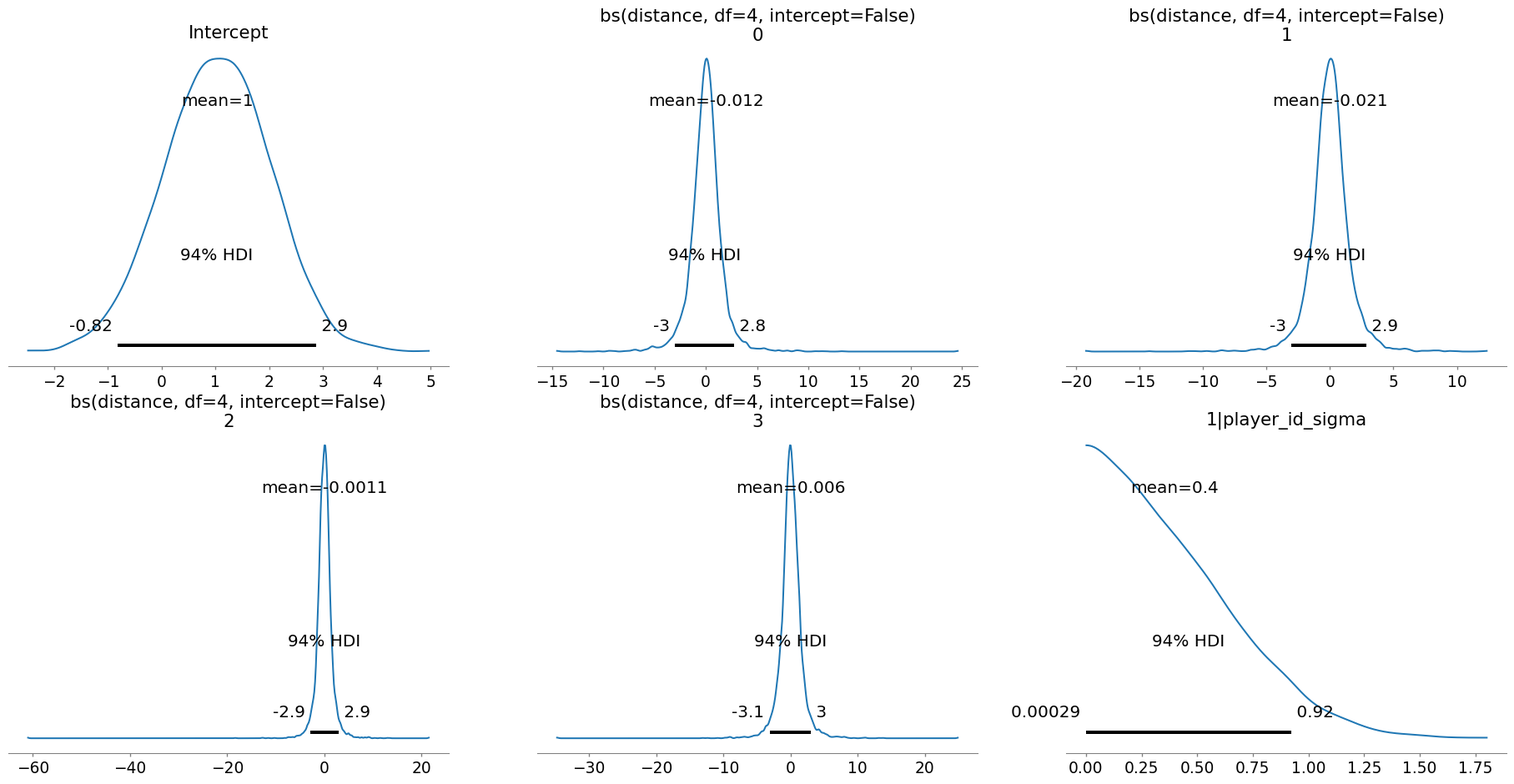
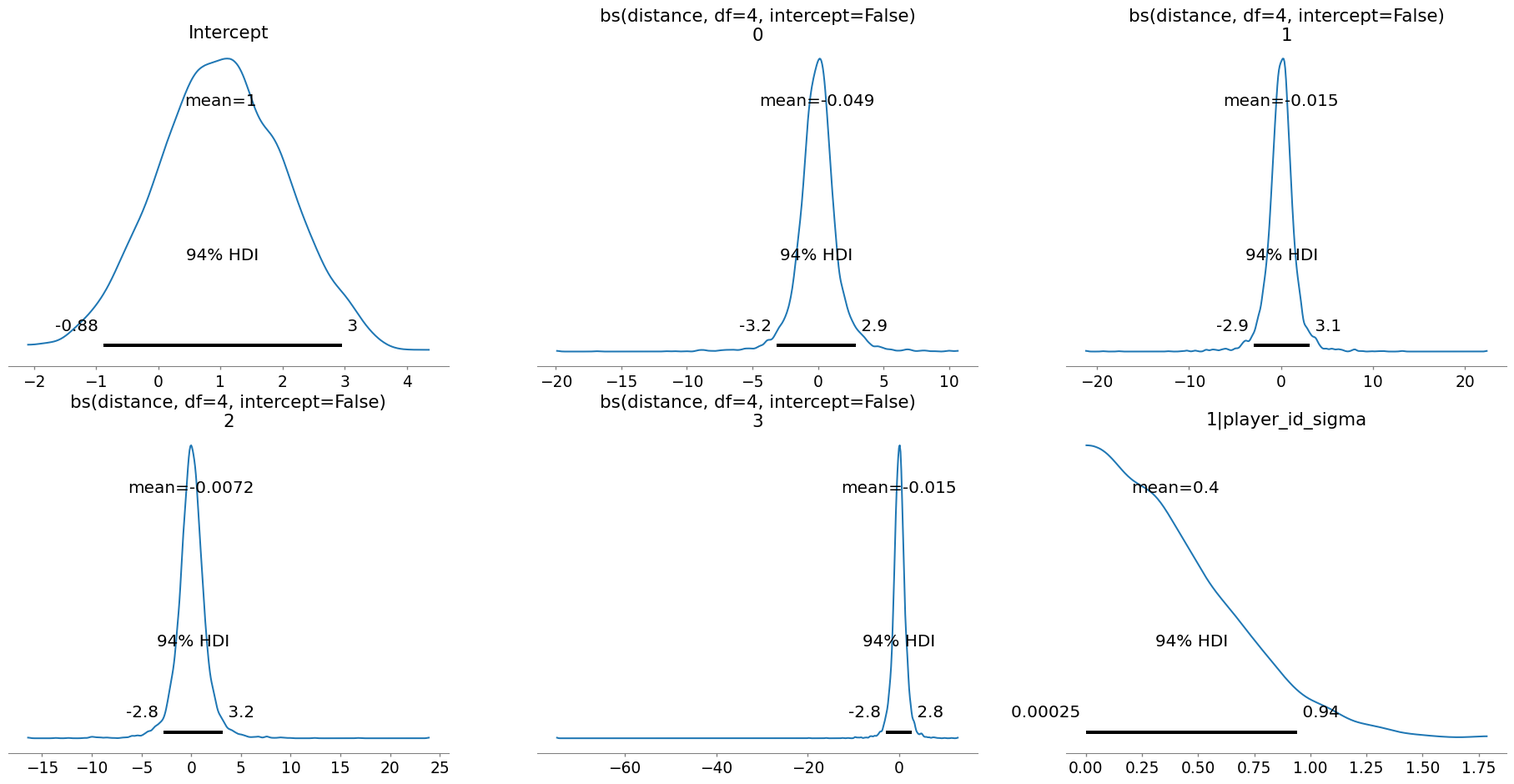
gha3

diff --git a/kicker_model.html b/kicker_model.html
@@ -415,11 +415,11 @@ y_i &amp;\sim \operatorname{Bernoulli}(p_i) \\
 Initializing NUTS using jitter+adapt_diag...
 Sequential sampling (4 chains in 1 job)
 NUTS: [Intercept, bs(distance, df=4, intercept=False), 1|player_id_sigma, 1|player_id_offset]
-Sampling 4 chains for 1_000 tune and 1_000 draw iterations (4_000 + 4_000 draws total) took 72 seconds.</code></pre>
+Sampling 4 chains for 1_000 tune and 1_000 draw iterations (4_000 + 4_000 draws total) took 71 seconds.</code></pre>
 </div>
 <div class="cell-output cell-output-display">
 <script type="application/vnd.jupyter.widget-view+json">
-{"model_id":"223e0524ee2a4f339ab9a6e0280fd861","version_major":2,"version_minor":0,"quarto_mimetype":"application/vnd.jupyter.widget-view+json"}
+{"model_id":"49ae325fdee8491b823c5fe4d8f8015f","version_major":2,"version_minor":0,"quarto_mimetype":"application/vnd.jupyter.widget-view+json"}
 </script>
 </div>
 <div class="cell-output cell-output-display">
@@ -925,69 +925,69 @@ Sampling 4 chains for 1_000 tune and 1_000 draw iterations (4_000 + 4_000 draws 
 </thead>
 <tbody>
 <tr class="odd">
-<td>"MARSHALL KOEHN"</td>
-<td>"43736"</td>
-<td>0.08794</td>
+<td>"BRANDON MCMANUS"</td>
+<td>"40276"</td>
+<td>0.380004</td>
 <td>4000</td>
 </tr>
 <tr class="even">
-<td>"JASON MYERS"</td>
-<td>"41175"</td>
-<td>0.206849</td>
+<td>"BRETT MAHER"</td>
+<td>"40775"</td>
+<td>0.657678</td>
 <td>4000</td>
 </tr>
 <tr class="odd">
-<td>"HARRISON BUTKER"</td>
-<td>"45046"</td>
-<td>1.015906</td>
+<td>"ZANE GONZALEZ"</td>
+<td>"45037"</td>
+<td>-0.75119</td>
 <td>4000</td>
 </tr>
 <tr class="even">
+<td>"SEBASTIAN JANIKOWSKI"</td>
+<td>"25326"</td>
+<td>0.947021</td>
+<td>4000</td>
+</tr>
+<tr class="odd">
 <td>"JASON SANDERS"</td>
 <td>"46298"</td>
 <td>0.143966</td>
 <td>4000</td>
 </tr>
+<tr class="even">
+<td>…</td>
+<td>…</td>
+<td>…</td>
+<td>…</td>
+</tr>
 <tr class="odd">
+<td>"STEVEN HAUSCHKA"</td>
+<td>"33469"</td>
+<td>1.87498</td>
+<td>4000</td>
+</tr>
+<tr class="even">
 <td>"GREG JOSEPH"</td>
 <td>"46634"</td>
 <td>0.250833</td>
 <td>4000</td>
 </tr>
-<tr class="even">
-<td>…</td>
-<td>…</td>
-<td>…</td>
-<td>…</td>
-</tr>
 <tr class="odd">
-<td>"JAKE ELLIOTT"</td>
-<td>"44966"</td>
-<td>-0.136802</td>
+<td>"MATT PRATER"</td>
+<td>"31446"</td>
+<td>1.070614</td>
 <td>4000</td>
 </tr>
 <tr class="even">
-<td>"ROSS MARTIN"</td>
-<td>"43815"</td>
-<td>-0.385742</td>
+<td>"MICHAEL BADGLEY"</td>
+<td>"46342"</td>
+<td>0.304538</td>
 <td>4000</td>
 </tr>
 <tr class="odd">
-<td>"JOHNNY HEKKER"</td>
-<td>"38815"</td>
-<td>-0.048811</td>
-<td>4000</td>
-</tr>
-<tr class="even">
-<td>"EDDY PINEIRO"</td>
-<td>"46426"</td>
-<td>0.135145</td>
-<td>4000</td>
-</tr>
-<tr class="odd">
-<td>"KAI FORBATH"</td>
-<td>"38220"</td>
-<td>0.623663</td>
+<td>"DUSTIN HOPKINS"</td>
+<td>"40125"</td>
+<td>0.128891</td>
 <td>4000</td>
 </tr>
 </tbody>
@@ -1197,52 +1197,52 @@ Note
 </details>
 <div class="cell-output cell-output-display" data-execution_count="18">
 
-<div id="bfrzueqqbv" style="padding-left:0px;padding-right:0px;padding-top:10px;padding-bottom:10px;overflow-x:auto;overflow-y:auto;width:auto;height:auto;">
+<div id="mxuyhsnmgg" style="padding-left:0px;padding-right:0px;padding-top:10px;padding-bottom:10px;overflow-x:auto;overflow-y:auto;width:auto;height:auto;">
 <style>
-#bfrzueqqbv table {
+#mxuyhsnmgg table {
           font-family: -apple-system, BlinkMacSystemFont, 'Segoe UI', Roboto, Oxygen, Ubuntu, Cantarell, 'Helvetica Neue', 'Fira Sans', 'Droid Sans', Arial, sans-serif;
           -webkit-font-smoothing: antialiased;
           -moz-osx-font-smoothing: grayscale;
         }
 
-#bfrzueqqbv thead, tbody, tfoot, tr, td, th { border-style: none; }
+#mxuyhsnmgg thead, tbody, tfoot, tr, td, th { border-style: none; }
  tr { background-color: transparent; }
-#bfrzueqqbv p { margin: 0; padding: 0; }
- #bfrzueqqbv .gt_table { display: table; border-collapse: collapse; line-height: normal; margin-left: auto; margin-right: auto; color: #333333; font-size: 16px; font-weight: normal; font-style: normal; background-color: #FFFFFF; width: auto; border-top-style: solid; border-top-width: 2px; border-top-color: #A8A8A8; border-right-style: none; border-right-width: 2px; border-right-color: #D3D3D3; border-bottom-style: solid; border-bottom-width: 2px; border-bottom-color: #A8A8A8; border-left-style: none; border-left-width: 2px; border-left-color: #D3D3D3; }
- #bfrzueqqbv .gt_caption { padding-top: 4px; padding-bottom: 4px; }
- #bfrzueqqbv .gt_title { color: #333333; font-size: 125%; font-weight: initial; padding-top: 4px; padding-bottom: 4px; padding-left: 5px; padding-right: 5px; border-bottom-color: #FFFFFF; border-bottom-width: 0; }
- #bfrzueqqbv .gt_subtitle { color: #333333; font-size: 85%; font-weight: initial; padding-top: 3px; padding-bottom: 5px; padding-left: 5px; padding-right: 5px; border-top-color: #FFFFFF; border-top-width: 0; }
- #bfrzueqqbv .gt_heading { background-color: #FFFFFF; text-align: center; border-bottom-color: #FFFFFF; border-left-style: none; border-left-width: 1px; border-left-color: #D3D3D3; border-right-style: none; border-right-width: 1px; border-right-color: #D3D3D3; }
- #bfrzueqqbv .gt_bottom_border { border-bottom-style: solid; border-bottom-width: 2px; border-bottom-color: #D3D3D3; }
- #bfrzueqqbv .gt_col_headings { border-top-style: solid; border-top-width: 2px; border-top-color: #D3D3D3; border-bottom-style: solid; border-bottom-width: 2px; border-bottom-color: #D3D3D3; border-left-style: none; border-left-width: 1px; border-left-color: #D3D3D3; border-right-style: none; border-right-width: 1px; border-right-color: #D3D3D3; }
- #bfrzueqqbv .gt_col_heading { color: #333333; background-color: #FFFFFF; font-size: 100%; font-weight: normal; text-transform: inherit; border-left-style: none; border-left-width: 1px; border-left-color: #D3D3D3; border-right-style: none; border-right-width: 1px; border-right-color: #D3D3D3; vertical-align: bottom; padding-top: 5px; padding-bottom: 5px; padding-left: 5px; padding-right: 5px; overflow-x: hidden; }
- #bfrzueqqbv .gt_column_spanner_outer { color: #333333; background-color: #FFFFFF; font-size: 100%; font-weight: normal; text-transform: inherit; padding-top: 0; padding-bottom: 0; padding-left: 4px; padding-right: 4px; }
- #bfrzueqqbv .gt_column_spanner_outer:first-child { padding-left: 0; }
- #bfrzueqqbv .gt_column_spanner_outer:last-child { padding-right: 0; }
- #bfrzueqqbv .gt_column_spanner { border-bottom-style: solid; border-bottom-width: 2px; border-bottom-color: #D3D3D3; vertical-align: bottom; padding-top: 5px; padding-bottom: 5px; overflow-x: hidden; display: inline-block; width: 100%; }
- #bfrzueqqbv .gt_spanner_row { border-bottom-style: hidden; }
- #bfrzueqqbv .gt_group_heading { padding-top: 8px; padding-bottom: 8px; padding-left: 5px; padding-right: 5px; color: #333333; background-color: #FFFFFF; font-size: 100%; font-weight: initial; text-transform: inherit; border-top-style: solid; border-top-width: 2px; border-top-color: #D3D3D3; border-bottom-style: solid; border-bottom-width: 2px; border-bottom-color: #D3D3D3; border-left-style: none; border-left-width: 1px; border-left-color: #D3D3D3; border-right-style: none; border-right-width: 1px; border-right-color: #D3D3D3; vertical-align: middle; text-align: left; }
- #bfrzueqqbv .gt_empty_group_heading { padding: 0.5px; color: #333333; background-color: #FFFFFF; font-size: 100%; font-weight: initial; border-top-style: solid; border-top-width: 2px; border-top-color: #D3D3D3; border-bottom-style: solid; border-bottom-width: 2px; border-bottom-color: #D3D3D3; vertical-align: middle; }
- #bfrzueqqbv .gt_from_md> :first-child { margin-top: 0; }
- #bfrzueqqbv .gt_from_md> :last-child { margin-bottom: 0; }
- #bfrzueqqbv .gt_row { padding-top: 8px; padding-bottom: 8px; padding-left: 5px; padding-right: 5px; margin: 10px; border-top-style: solid; border-top-width: 1px; border-top-color: #D3D3D3; border-left-style: none; border-left-width: 1px; border-left-color: #D3D3D3; border-right-style: none; border-right-width: 1px; border-right-color: #D3D3D3; vertical-align: middle; overflow-x: hidden; }
- #bfrzueqqbv .gt_stub { color: #333333; background-color: #FFFFFF; font-size: 100%; font-weight: initial; text-transform: inherit; border-right-style: solid; border-right-width: 2px; border-right-color: #D3D3D3; padding-left: 5px; padding-right: 5px; }
- #bfrzueqqbv .gt_stub_row_group { color: #333333; background-color: #FFFFFF; font-size: 100%; font-weight: initial; text-transform: inherit; border-right-style: solid; border-right-width: 2px; border-right-color: #D3D3D3; padding-left: 5px; padding-right: 5px; vertical-align: top; }
- #bfrzueqqbv .gt_row_group_first td { border-top-width: 2px; }
- #bfrzueqqbv .gt_row_group_first th { border-top-width: 2px; }
- #bfrzueqqbv .gt_striped { background-color: rgba(128,128,128,0.05); }
- #bfrzueqqbv .gt_table_body { border-top-style: solid; border-top-width: 2px; border-top-color: #D3D3D3; border-bottom-style: solid; border-bottom-width: 2px; border-bottom-color: #D3D3D3; }
- #bfrzueqqbv .gt_sourcenotes { color: #333333; background-color: #FFFFFF; border-bottom-style: none; border-bottom-width: 2px; border-bottom-color: #D3D3D3; border-left-style: none; border-left-width: 2px; border-left-color: #D3D3D3; border-right-style: none; border-right-width: 2px; border-right-color: #D3D3D3; }
- #bfrzueqqbv .gt_sourcenote { font-size: 90%; padding-top: 4px; padding-bottom: 4px; padding-left: 5px; padding-right: 5px; text-align: left; }
- #bfrzueqqbv .gt_left { text-align: left; }
- #bfrzueqqbv .gt_center { text-align: center; }
- #bfrzueqqbv .gt_right { text-align: right; font-variant-numeric: tabular-nums; }
- #bfrzueqqbv .gt_font_normal { font-weight: normal; }
- #bfrzueqqbv .gt_font_bold { font-weight: bold; }
- #bfrzueqqbv .gt_font_italic { font-style: italic; }
- #bfrzueqqbv .gt_super { font-size: 65%; }
- #bfrzueqqbv .gt_footnote_marks { font-size: 75%; vertical-align: 0.4em; position: initial; }
- #bfrzueqqbv .gt_asterisk { font-size: 100%; vertical-align: 0; }
+#mxuyhsnmgg p { margin: 0; padding: 0; }
+ #mxuyhsnmgg .gt_table { display: table; border-collapse: collapse; line-height: normal; margin-left: auto; margin-right: auto; color: #333333; font-size: 16px; font-weight: normal; font-style: normal; background-color: #FFFFFF; width: auto; border-top-style: solid; border-top-width: 2px; border-top-color: #A8A8A8; border-right-style: none; border-right-width: 2px; border-right-color: #D3D3D3; border-bottom-style: solid; border-bottom-width: 2px; border-bottom-color: #A8A8A8; border-left-style: none; border-left-width: 2px; border-left-color: #D3D3D3; }
+ #mxuyhsnmgg .gt_caption { padding-top: 4px; padding-bottom: 4px; }
+ #mxuyhsnmgg .gt_title { color: #333333; font-size: 125%; font-weight: initial; padding-top: 4px; padding-bottom: 4px; padding-left: 5px; padding-right: 5px; border-bottom-color: #FFFFFF; border-bottom-width: 0; }
+ #mxuyhsnmgg .gt_subtitle { color: #333333; font-size: 85%; font-weight: initial; padding-top: 3px; padding-bottom: 5px; padding-left: 5px; padding-right: 5px; border-top-color: #FFFFFF; border-top-width: 0; }
+ #mxuyhsnmgg .gt_heading { background-color: #FFFFFF; text-align: center; border-bottom-color: #FFFFFF; border-left-style: none; border-left-width: 1px; border-left-color: #D3D3D3; border-right-style: none; border-right-width: 1px; border-right-color: #D3D3D3; }
+ #mxuyhsnmgg .gt_bottom_border { border-bottom-style: solid; border-bottom-width: 2px; border-bottom-color: #D3D3D3; }
+ #mxuyhsnmgg .gt_col_headings { border-top-style: solid; border-top-width: 2px; border-top-color: #D3D3D3; border-bottom-style: solid; border-bottom-width: 2px; border-bottom-color: #D3D3D3; border-left-style: none; border-left-width: 1px; border-left-color: #D3D3D3; border-right-style: none; border-right-width: 1px; border-right-color: #D3D3D3; }
+ #mxuyhsnmgg .gt_col_heading { color: #333333; background-color: #FFFFFF; font-size: 100%; font-weight: normal; text-transform: inherit; border-left-style: none; border-left-width: 1px; border-left-color: #D3D3D3; border-right-style: none; border-right-width: 1px; border-right-color: #D3D3D3; vertical-align: bottom; padding-top: 5px; padding-bottom: 5px; padding-left: 5px; padding-right: 5px; overflow-x: hidden; }
+ #mxuyhsnmgg .gt_column_spanner_outer { color: #333333; background-color: #FFFFFF; font-size: 100%; font-weight: normal; text-transform: inherit; padding-top: 0; padding-bottom: 0; padding-left: 4px; padding-right: 4px; }
+ #mxuyhsnmgg .gt_column_spanner_outer:first-child { padding-left: 0; }
+ #mxuyhsnmgg .gt_column_spanner_outer:last-child { padding-right: 0; }
+ #mxuyhsnmgg .gt_column_spanner { border-bottom-style: solid; border-bottom-width: 2px; border-bottom-color: #D3D3D3; vertical-align: bottom; padding-top: 5px; padding-bottom: 5px; overflow-x: hidden; display: inline-block; width: 100%; }
+ #mxuyhsnmgg .gt_spanner_row { border-bottom-style: hidden; }
+ #mxuyhsnmgg .gt_group_heading { padding-top: 8px; padding-bottom: 8px; padding-left: 5px; padding-right: 5px; color: #333333; background-color: #FFFFFF; font-size: 100%; font-weight: initial; text-transform: inherit; border-top-style: solid; border-top-width: 2px; border-top-color: #D3D3D3; border-bottom-style: solid; border-bottom-width: 2px; border-bottom-color: #D3D3D3; border-left-style: none; border-left-width: 1px; border-left-color: #D3D3D3; border-right-style: none; border-right-width: 1px; border-right-color: #D3D3D3; vertical-align: middle; text-align: left; }
+ #mxuyhsnmgg .gt_empty_group_heading { padding: 0.5px; color: #333333; background-color: #FFFFFF; font-size: 100%; font-weight: initial; border-top-style: solid; border-top-width: 2px; border-top-color: #D3D3D3; border-bottom-style: solid; border-bottom-width: 2px; border-bottom-color: #D3D3D3; vertical-align: middle; }
+ #mxuyhsnmgg .gt_from_md> :first-child { margin-top: 0; }
+ #mxuyhsnmgg .gt_from_md> :last-child { margin-bottom: 0; }
+ #mxuyhsnmgg .gt_row { padding-top: 8px; padding-bottom: 8px; padding-left: 5px; padding-right: 5px; margin: 10px; border-top-style: solid; border-top-width: 1px; border-top-color: #D3D3D3; border-left-style: none; border-left-width: 1px; border-left-color: #D3D3D3; border-right-style: none; border-right-width: 1px; border-right-color: #D3D3D3; vertical-align: middle; overflow-x: hidden; }
+ #mxuyhsnmgg .gt_stub { color: #333333; background-color: #FFFFFF; font-size: 100%; font-weight: initial; text-transform: inherit; border-right-style: solid; border-right-width: 2px; border-right-color: #D3D3D3; padding-left: 5px; padding-right: 5px; }
+ #mxuyhsnmgg .gt_stub_row_group { color: #333333; background-color: #FFFFFF; font-size: 100%; font-weight: initial; text-transform: inherit; border-right-style: solid; border-right-width: 2px; border-right-color: #D3D3D3; padding-left: 5px; padding-right: 5px; vertical-align: top; }
+ #mxuyhsnmgg .gt_row_group_first td { border-top-width: 2px; }
+ #mxuyhsnmgg .gt_row_group_first th { border-top-width: 2px; }
+ #mxuyhsnmgg .gt_striped { background-color: rgba(128,128,128,0.05); }
+ #mxuyhsnmgg .gt_table_body { border-top-style: solid; border-top-width: 2px; border-top-color: #D3D3D3; border-bottom-style: solid; border-bottom-width: 2px; border-bottom-color: #D3D3D3; }
+ #mxuyhsnmgg .gt_sourcenotes { color: #333333; background-color: #FFFFFF; border-bottom-style: none; border-bottom-width: 2px; border-bottom-color: #D3D3D3; border-left-style: none; border-left-width: 2px; border-left-color: #D3D3D3; border-right-style: none; border-right-width: 2px; border-right-color: #D3D3D3; }
+ #mxuyhsnmgg .gt_sourcenote { font-size: 90%; padding-top: 4px; padding-bottom: 4px; padding-left: 5px; padding-right: 5px; text-align: left; }
+ #mxuyhsnmgg .gt_left { text-align: left; }
+ #mxuyhsnmgg .gt_center { text-align: center; }
+ #mxuyhsnmgg .gt_right { text-align: right; font-variant-numeric: tabular-nums; }
+ #mxuyhsnmgg .gt_font_normal { font-weight: normal; }
+ #mxuyhsnmgg .gt_font_bold { font-weight: bold; }
+ #mxuyhsnmgg .gt_font_italic { font-style: italic; }
+ #mxuyhsnmgg .gt_super { font-size: 65%; }
+ #mxuyhsnmgg .gt_footnote_marks { font-size: 75%; vertical-align: 0.4em; position: initial; }
+ #mxuyhsnmgg .gt_asterisk { font-size: 100%; vertical-align: 0; }
  
 </style>
 <table class="gt_table" data-quarto-disable-processing="false" data-quarto-bootstrap="false">
@@ -1490,7 +1490,7 @@ Note
 </main>
 <!-- /main column -->
 <script type="application/vnd.jupyter.widget-state+json">
-{"state":{"1ab16292906c4d8fb2be0ba306f9bf16":{"model_module":"@jupyter-widgets/base","model_module_version":"2.0.0","model_name":"LayoutModel","state":{"_model_module":"@jupyter-widgets/base","_model_module_version":"2.0.0","_model_name":"LayoutModel","_view_count":null,"_view_module":"@jupyter-widgets/base","_view_module_version":"2.0.0","_view_name":"LayoutView","align_content":null,"align_items":null,"align_self":null,"border_bottom":null,"border_left":null,"border_right":null,"border_top":null,"bottom":null,"display":null,"flex":null,"flex_flow":null,"grid_area":null,"grid_auto_columns":null,"grid_auto_flow":null,"grid_auto_rows":null,"grid_column":null,"grid_gap":null,"grid_row":null,"grid_template_areas":null,"grid_template_columns":null,"grid_template_rows":null,"height":null,"justify_content":null,"justify_items":null,"left":null,"margin":null,"max_height":null,"max_width":null,"min_height":null,"min_width":null,"object_fit":null,"object_position":null,"order":null,"overflow":null,"padding":null,"right":null,"top":null,"visibility":null,"width":null}},"223e0524ee2a4f339ab9a6e0280fd861":{"model_module":"@jupyter-widgets/output","model_module_version":"1.0.0","model_name":"OutputModel","state":{"_dom_classes":[],"_model_module":"@jupyter-widgets/output","_model_module_version":"1.0.0","_model_name":"OutputModel","_view_count":null,"_view_module":"@jupyter-widgets/output","_view_module_version":"1.0.0","_view_name":"OutputView","layout":"IPY_MODEL_1ab16292906c4d8fb2be0ba306f9bf16","msg_id":"","outputs":[{"data":{"text/html":"<pre style=\"white-space:pre;overflow-x:auto;line-height:normal;font-family:Menlo,'DejaVu Sans Mono',consolas,'Courier New',monospace\">                                                                                                                   \n <span style=\"font-weight: bold\"> Progress                  </span> <span style=\"font-weight: bold\"> Draws </span> <span style=\"font-weight: bold\"> Divergences </span> <span style=\"font-weight: bold\"> Step size </span> <span style=\"font-weight: bold\"> Grad evals </span> <span style=\"font-weight: bold\"> Sampling Speed </span> <span style=\"font-weight: bold\"> Elapsed </span> <span style=\"font-weight: bold\"> Remaining </span> \n ───────────────────────────────────────────────────────────────────────────────────────────────────────────────── \n  <span style=\"color: #1f77b4; text-decoration-color: #1f77b4\">━━━━━━━━━━━━━━━━━━━━━━━━━</span>   2000    0             0.23        15           110.76 draws/s   0:00:18   0:00:00    \n  <span style=\"color: #1f77b4; text-decoration-color: #1f77b4\">━━━━━━━━━━━━━━━━━━━━━━━━━</span>   2000    0             0.15        15           54.84 draws/s    0:00:36   0:00:00    \n  <span style=\"color: #1f77b4; text-decoration-color: #1f77b4\">━━━━━━━━━━━━━━━━━━━━━━━━━</span>   2000    0             0.27        15           36.65 draws/s    0:00:54   0:00:00    \n  <span style=\"color: #1f77b4; text-decoration-color: #1f77b4\">━━━━━━━━━━━━━━━━━━━━━━━━━</span>   2000    0             0.22        15           27.82 draws/s    0:01:11   0:00:00    \n                                                                                                                   \n</pre>\n","text/plain":"                                                                                                                   \n \u001b[1m \u001b[0m\u001b[1mProgress                 \u001b[0m\u001b[1m \u001b[0m \u001b[1m \u001b[0m\u001b[1mDraws\u001b[0m\u001b[1m \u001b[0m \u001b[1m \u001b[0m\u001b[1mDivergences\u001b[0m\u001b[1m \u001b[0m \u001b[1m \u001b[0m\u001b[1mStep size\u001b[0m\u001b[1m \u001b[0m \u001b[1m \u001b[0m\u001b[1mGrad evals\u001b[0m\u001b[1m \u001b[0m \u001b[1m \u001b[0m\u001b[1mSampling Speed\u001b[0m\u001b[1m \u001b[0m \u001b[1m \u001b[0m\u001b[1mElapsed\u001b[0m\u001b[1m \u001b[0m \u001b[1m \u001b[0m\u001b[1mRemaining\u001b[0m\u001b[1m \u001b[0m \n ───────────────────────────────────────────────────────────────────────────────────────────────────────────────── \n  \u001b[38;2;31;119;180m━━━━━━━━━━━━━━━━━━━━━━━━━\u001b[0m   2000    0             0.23        15           110.76 draws/s   0:00:18   0:00:00    \n  \u001b[38;2;31;119;180m━━━━━━━━━━━━━━━━━━━━━━━━━\u001b[0m   2000    0             0.15        15           54.84 draws/s    0:00:36   0:00:00    \n  \u001b[38;2;31;119;180m━━━━━━━━━━━━━━━━━━━━━━━━━\u001b[0m   2000    0             0.27        15           36.65 draws/s    0:00:54   0:00:00    \n  \u001b[38;2;31;119;180m━━━━━━━━━━━━━━━━━━━━━━━━━\u001b[0m   2000    0             0.22        15           27.82 draws/s    0:01:11   0:00:00    \n                                                                                                                   \n"},"metadata":{},"output_type":"display_data"}],"tabbable":null,"tooltip":null}}},"version_major":2,"version_minor":0}
+{"state":{"49ae325fdee8491b823c5fe4d8f8015f":{"model_module":"@jupyter-widgets/output","model_module_version":"1.0.0","model_name":"OutputModel","state":{"_dom_classes":[],"_model_module":"@jupyter-widgets/output","_model_module_version":"1.0.0","_model_name":"OutputModel","_view_count":null,"_view_module":"@jupyter-widgets/output","_view_module_version":"1.0.0","_view_name":"OutputView","layout":"IPY_MODEL_a8f8cf6f97544bbd9b4b376cb4bb7dbe","msg_id":"","outputs":[{"data":{"text/html":"<pre style=\"white-space:pre;overflow-x:auto;line-height:normal;font-family:Menlo,'DejaVu Sans Mono',consolas,'Courier New',monospace\">                                                                                                                   \n <span style=\"font-weight: bold\"> Progress                  </span> <span style=\"font-weight: bold\"> Draws </span> <span style=\"font-weight: bold\"> Divergences </span> <span style=\"font-weight: bold\"> Step size </span> <span style=\"font-weight: bold\"> Grad evals </span> <span style=\"font-weight: bold\"> Sampling Speed </span> <span style=\"font-weight: bold\"> Elapsed </span> <span style=\"font-weight: bold\"> Remaining </span> \n ───────────────────────────────────────────────────────────────────────────────────────────────────────────────── \n  <span style=\"color: #1f77b4; text-decoration-color: #1f77b4\">━━━━━━━━━━━━━━━━━━━━━━━━━</span>   2000    0             0.23        15           112.90 draws/s   0:00:17   0:00:00    \n  <span style=\"color: #1f77b4; text-decoration-color: #1f77b4\">━━━━━━━━━━━━━━━━━━━━━━━━━</span>   2000    0             0.15        15           55.55 draws/s    0:00:35   0:00:00    \n  <span style=\"color: #1f77b4; text-decoration-color: #1f77b4\">━━━━━━━━━━━━━━━━━━━━━━━━━</span>   2000    0             0.27        15           37.11 draws/s    0:00:53   0:00:00    \n  <span style=\"color: #1f77b4; text-decoration-color: #1f77b4\">━━━━━━━━━━━━━━━━━━━━━━━━━</span>   2000    0             0.22        15           28.07 draws/s    0:01:11   0:00:00    \n                                                                                                                   \n</pre>\n","text/plain":"                                                                                                                   \n \u001b[1m \u001b[0m\u001b[1mProgress                 \u001b[0m\u001b[1m \u001b[0m \u001b[1m \u001b[0m\u001b[1mDraws\u001b[0m\u001b[1m \u001b[0m \u001b[1m \u001b[0m\u001b[1mDivergences\u001b[0m\u001b[1m \u001b[0m \u001b[1m \u001b[0m\u001b[1mStep size\u001b[0m\u001b[1m \u001b[0m \u001b[1m \u001b[0m\u001b[1mGrad evals\u001b[0m\u001b[1m \u001b[0m \u001b[1m \u001b[0m\u001b[1mSampling Speed\u001b[0m\u001b[1m \u001b[0m \u001b[1m \u001b[0m\u001b[1mElapsed\u001b[0m\u001b[1m \u001b[0m \u001b[1m \u001b[0m\u001b[1mRemaining\u001b[0m\u001b[1m \u001b[0m \n ───────────────────────────────────────────────────────────────────────────────────────────────────────────────── \n  \u001b[38;2;31;119;180m━━━━━━━━━━━━━━━━━━━━━━━━━\u001b[0m   2000    0             0.23        15           112.90 draws/s   0:00:17   0:00:00    \n  \u001b[38;2;31;119;180m━━━━━━━━━━━━━━━━━━━━━━━━━\u001b[0m   2000    0             0.15        15           55.55 draws/s    0:00:35   0:00:00    \n  \u001b[38;2;31;119;180m━━━━━━━━━━━━━━━━━━━━━━━━━\u001b[0m   2000    0             0.27        15           37.11 draws/s    0:00:53   0:00:00    \n  \u001b[38;2;31;119;180m━━━━━━━━━━━━━━━━━━━━━━━━━\u001b[0m   2000    0             0.22        15           28.07 draws/s    0:01:11   0:00:00    \n                                                                                                                   \n"},"metadata":{},"output_type":"display_data"}],"tabbable":null,"tooltip":null}},"a8f8cf6f97544bbd9b4b376cb4bb7dbe":{"model_module":"@jupyter-widgets/base","model_module_version":"2.0.0","model_name":"LayoutModel","state":{"_model_module":"@jupyter-widgets/base","_model_module_version":"2.0.0","_model_name":"LayoutModel","_view_count":null,"_view_module":"@jupyter-widgets/base","_view_module_version":"2.0.0","_view_name":"LayoutView","align_content":null,"align_items":null,"align_self":null,"border_bottom":null,"border_left":null,"border_right":null,"border_top":null,"bottom":null,"display":null,"flex":null,"flex_flow":null,"grid_area":null,"grid_auto_columns":null,"grid_auto_flow":null,"grid_auto_rows":null,"grid_column":null,"grid_gap":null,"grid_row":null,"grid_template_areas":null,"grid_template_columns":null,"grid_template_rows":null,"height":null,"justify_content":null,"justify_items":null,"left":null,"margin":null,"max_height":null,"max_width":null,"min_height":null,"min_width":null,"object_fit":null,"object_position":null,"order":null,"overflow":null,"padding":null,"right":null,"top":null,"visibility":null,"width":null}}},"version_major":2,"version_minor":0}
 </script>
 <script id="quarto-html-after-body" type="application/javascript">
 window.document.addEventListener("DOMContentLoaded", function (event) {
